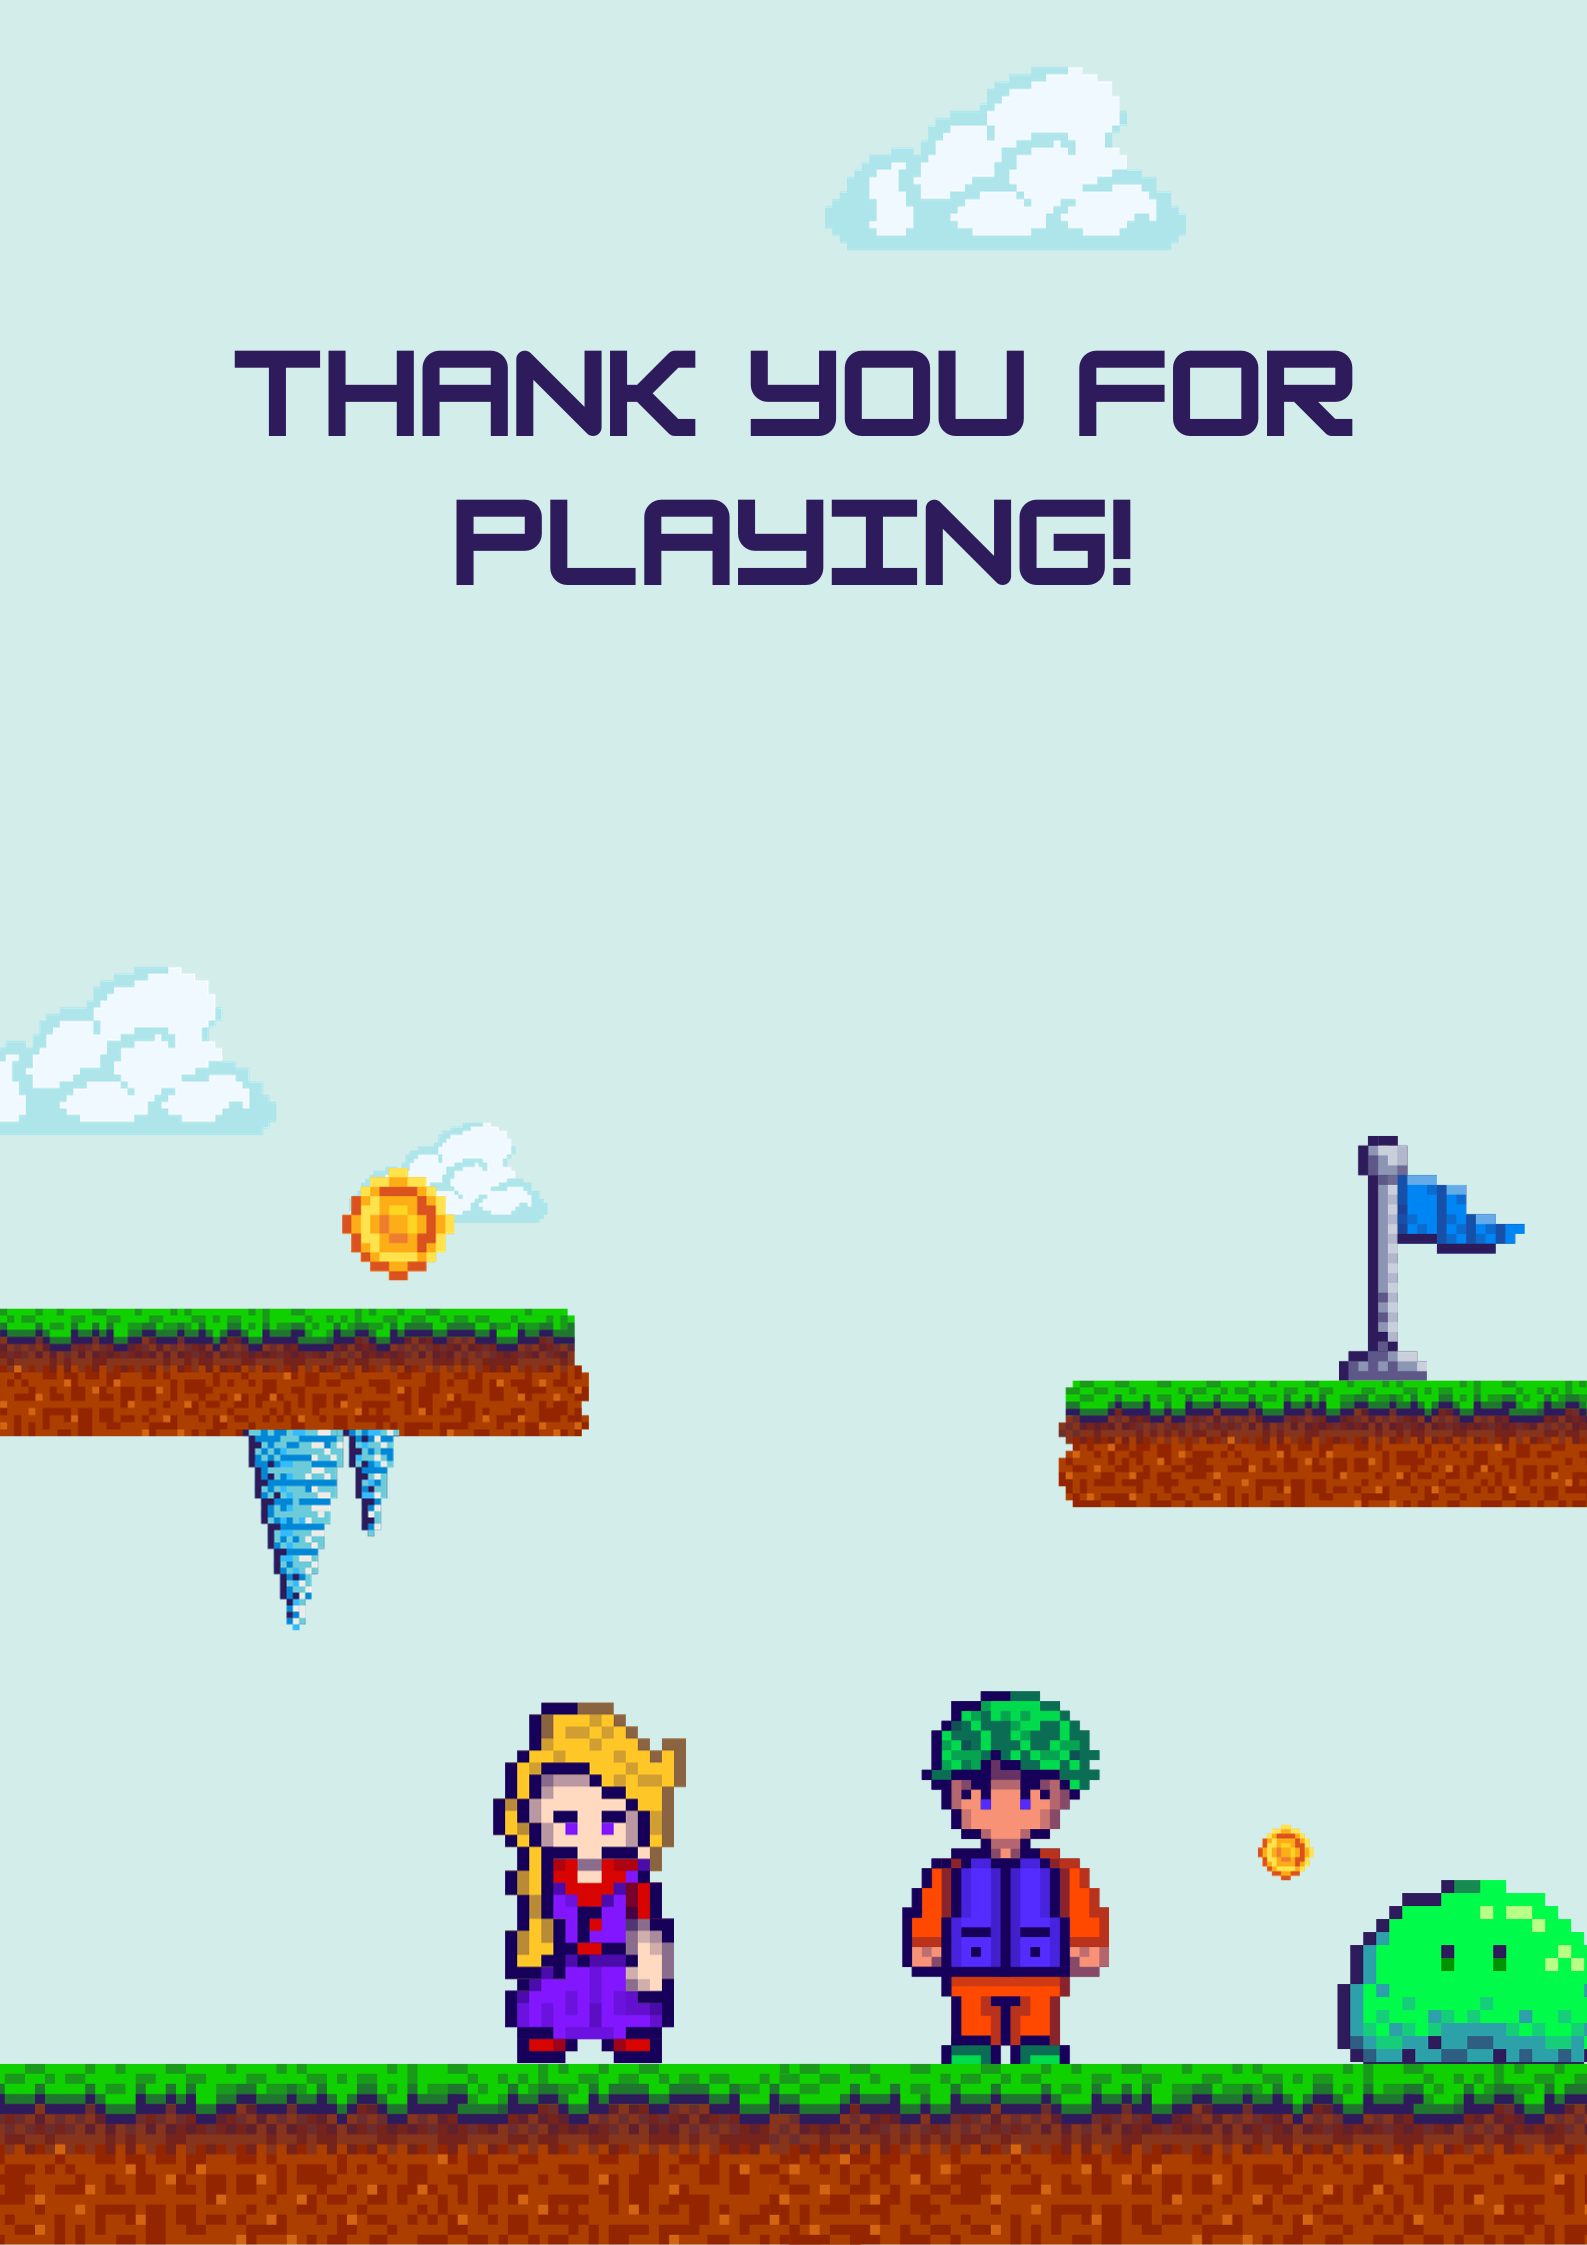
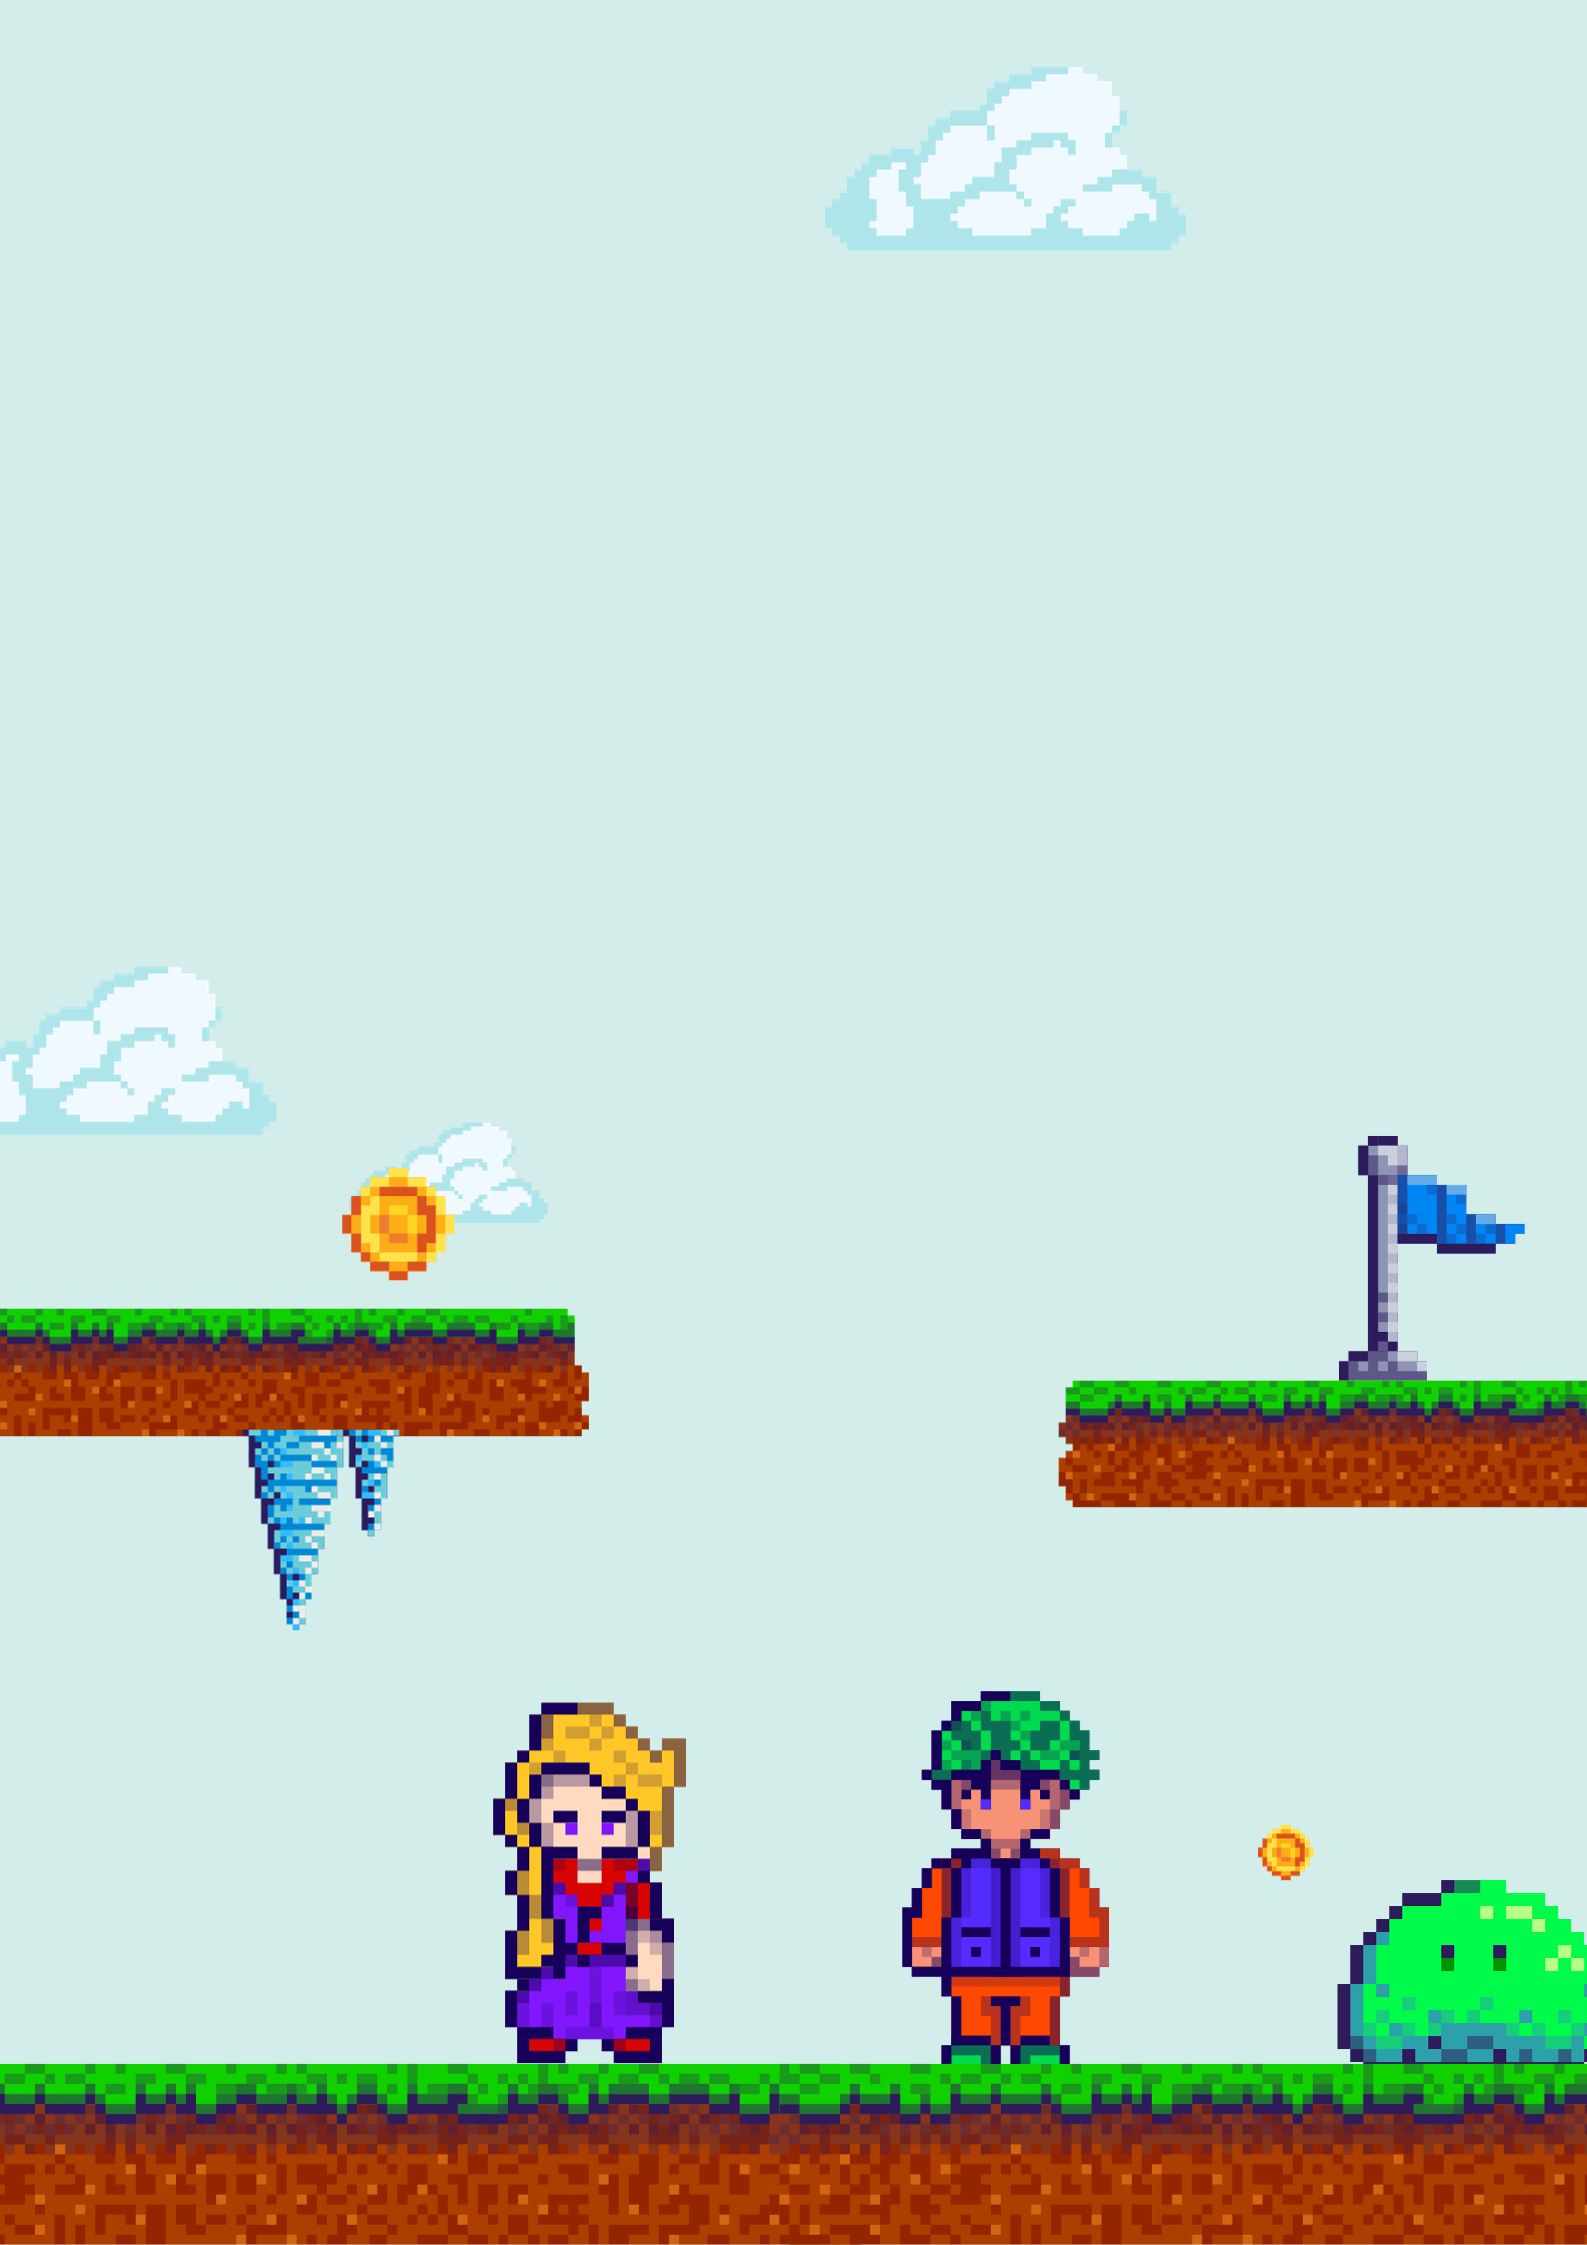
Fin 1.06 改大小 排版

Changed region(s): [[0.1544, 0.1559, 0.7101, 0.2806], [0.6793, 0.1559, 0.8645, 0.2183]]

diff --git a/script.js b/script.js
@@ -46,6 +46,7 @@ optionsElements.forEach(option => {
 questionElement.style.display = 'none';
 resultElement.style.display = 'none';
 endingElement.style.display = 'none';
+document.getElementById("thank").style.display = 'none';
 
 
 function displayQuestion() {
@@ -122,12 +123,13 @@ function checkAnswer(selectedOption) {
             questionElement.style.display = 'none';
             endingElement.style.display = 'inline';
             disableOptions(); // 調用禁止選項按鈕並更改鼠標指示樣式
+            document.getElementById("thank").style.display = 'inline';
 
             if(score == questions.length ){
-                endingElement.textContent = "問答結束。\n恭喜你全答對，榮獲台華認證\n板金小老師，前途不可限量！\n\n11月咖啡展歡迎來找我們玩哦！"; 
+                endingElement.textContent = "問答結束。\n恭喜你全答對，榮獲台華認證板金小老師，前途不可限量！\n\n11月咖啡展歡迎來找我們玩哦！"; 
             }
             else if(0 < score && score < questions.length){
-                endingElement.textContent = "問答結束。\n你答對了"+ score +"題，不如再玩一次找出所有的正確答案！\n\n別忘了，11月咖啡展記得來和我們玩哦～"; 
+                endingElement.textContent = "問答結束。你答對了"+ score +"題，\n不如再玩一次找出所有的正確答案！\n\n別忘了，11月咖啡展記得來和我們玩哦～"; 
             }
             else if (score == 0){
                 endingElement.textContent = "問答結束。\n不妨再試一試吧！" ;

diff --git a/style.css b/style.css
@@ -159,6 +159,23 @@ body {
     top: 45%;
 }
 
+#thank {
+    font-size: 60px ;
+    width: 85%;
+    height: 25% ;
+    margin: 0px;
+    padding: 0px 0px 0px 0px;
+    border: none;
+    position: absolute;
+    background-color: transparent;
+    color: #2E1B5B;
+    text-shadow: 2px 2px 4px rgb(177, 204, 230);
+    font-family: 'Pixelify Sans', Arial, sans-serif;
+    font-weight: bold;
+    top: 10%;
+
+}
+
 #ending {
     width: 70%;
     height: 10% ;
@@ -166,14 +183,14 @@ body {
     padding: 5px 15px 5px 15px;
     margin: 5px;
 
-    font-size:x-large ;
+    font-size: large ;
     font-weight: bold;
     color: #2E1B5B;
     text-shadow: 2px 2px 4px rgb(177, 204, 230);
 
     margin-top: 10px;
     position: absolute;
-    top: 30%; /* 定位到容器的中間 */
+    top: 35%; /* 定位到容器的中間偏上 */
     left: 10%; /* 定位到容器的水平中間偏左 */
     z-index: 1;
     white-space: pre-line;

diff --git a/index.html b/index.html
@@ -24,6 +24,7 @@
                       
         </div>
         <p id="result"></p>
+        <p id="thank"> THANK YOU FOR PLAYING!</p>
         <p id="ending"></p>
     </div>
     <script src="script.js"></script>
